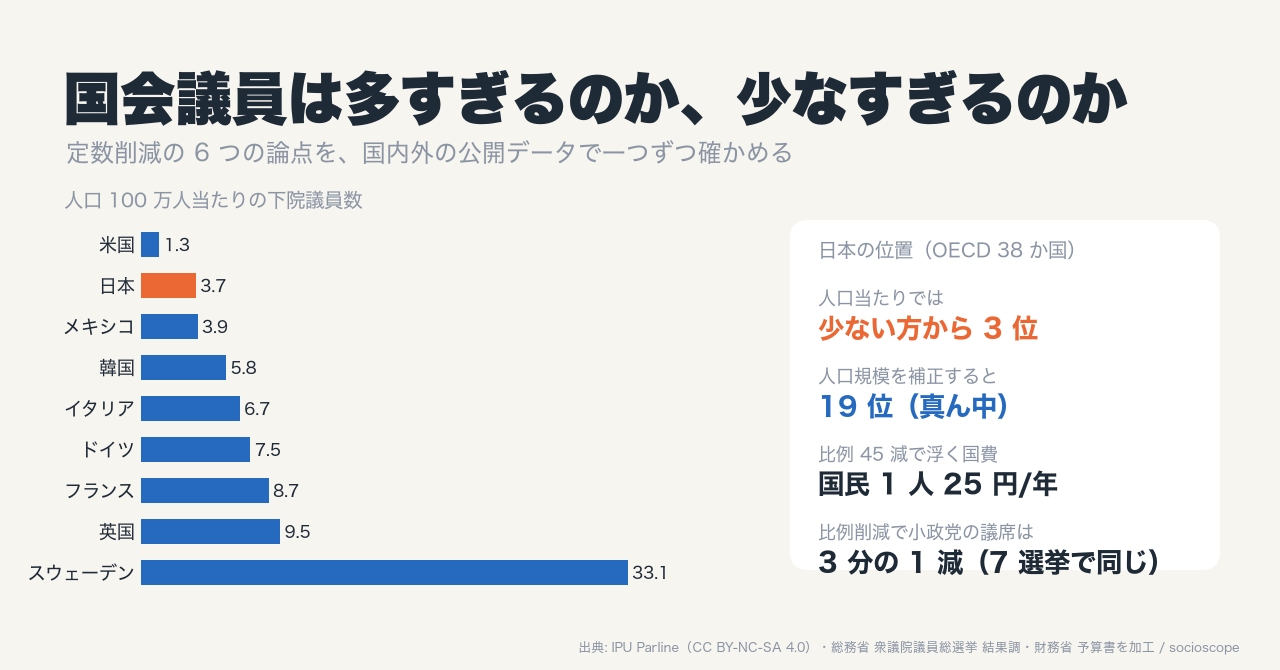
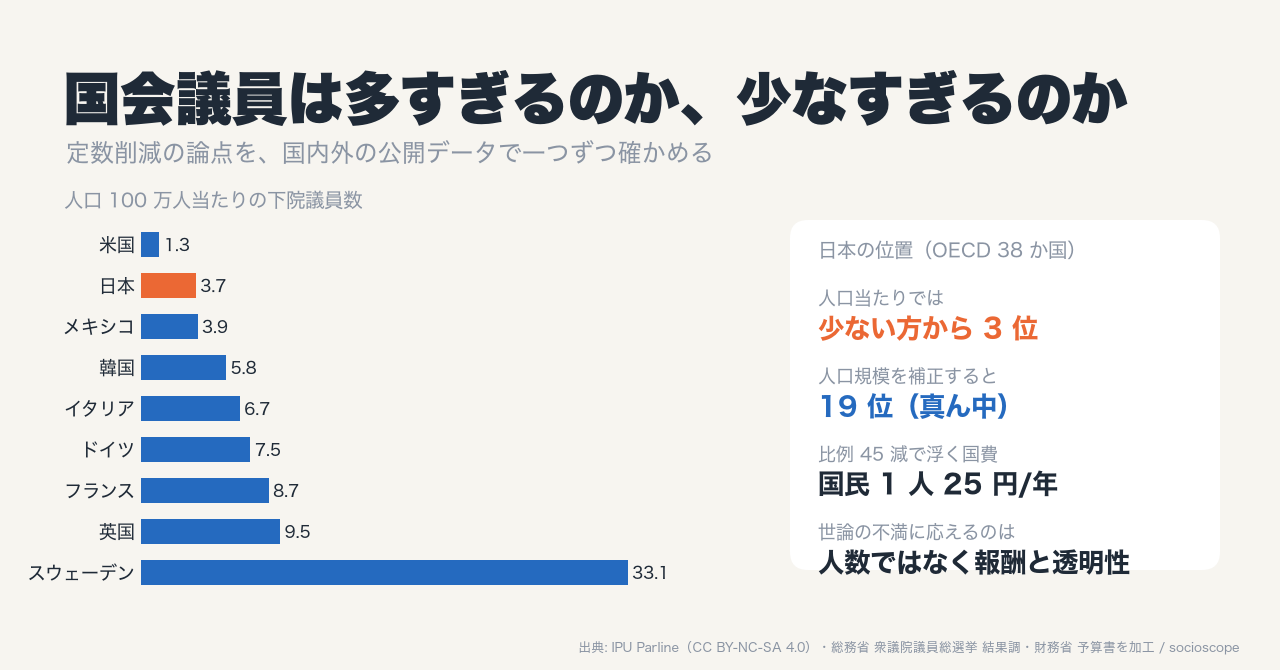
docs(parliament-size): 本編ヘッダー画像の 4 つ目をキーメッセージに差し替え、副題を論点数に依存しない形に
修正サンラグ式の採用が有力な状況で「比例削減で小政党の議席は 3 分の 1 減」（ドント式前提）を看板に出すと語弊を招くため。

Changed region(s): [[0.625, 0.7761, 0.9062, 0.8657], [0.125, 0.209, 0.625, 0.2687]]

diff --git a/docs/articles/headers/make_headers.py b/docs/articles/headers/make_headers.py
@@ -1208,7 +1208,7 @@ def parliament_size() -> Path:
     title_block(
         bg,
         "国会議員は多すぎるのか、少なすぎるのか",
-        "定数削減の 6 つの論点を、国内外の公開データで一つずつ確かめる",
+        "定数削減の論点を、国内外の公開データで一つずつ確かめる",
     )
     ax = fig.add_axes([0.11, 0.10, 0.46, 0.58])
     ys = np.arange(len(picks))[::-1]
@@ -1234,7 +1234,7 @@ def parliament_size() -> Path:
         ("人口当たりでは", f"少ない方から {rank_pm} 位", ORANGE),
         ("人口規模を補正すると", f"{rank_cb} 位（真ん中）", BLUE),
         ("比例 45 減で浮く国費", "国民 1 人 25 円/年", INK),
-        ("比例削減で小政党の議席は", "3 分の 1 減（7 選挙で同じ）", INK),
+        ("世論の不満に応えるのは", "人数ではなく報酬と透明性", INK),
     ]
     for i, (label, value, color) in enumerate(items):
         y = 372 - i * 78
